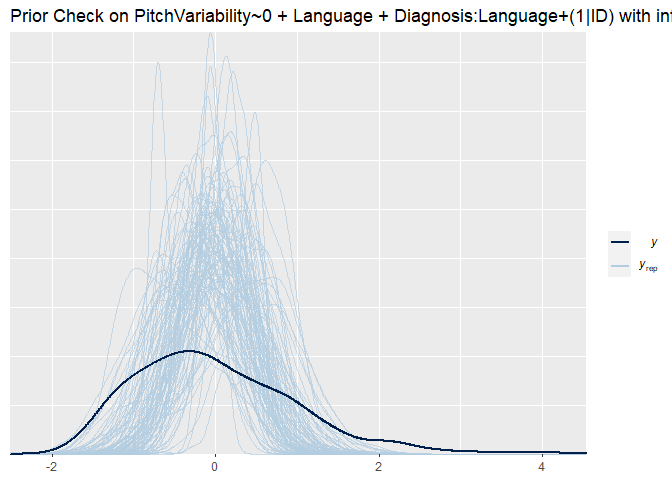
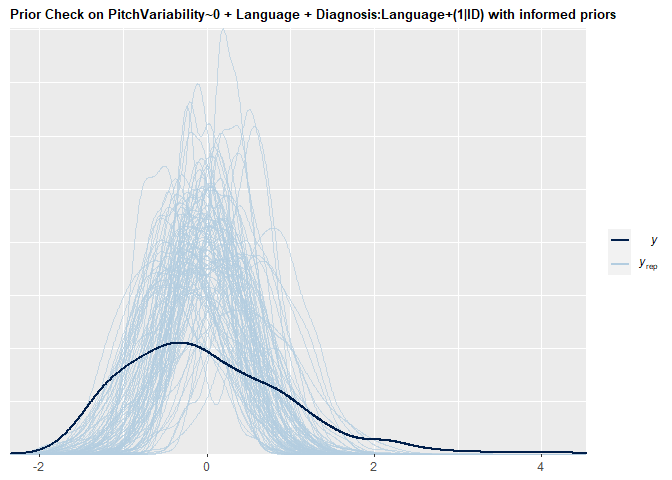
changed title size on plots

Changed region(s): [[0.0, 0.0, 1.0, 0.9688], [0.9062, 0.5, 1.0, 0.5625], [0.2812, 0.9688, 0.3438, 1.0]]

diff --git a/Assignment4.md b/Assignment4.md
@@ -165,7 +165,7 @@ metaAnalysis_m0 <- brm(
 priorCheck_metaAnalysis_m0 <-
   pp_check(metaAnalysis_m0, nsamples = 100)
 
-priorCheck_metaAnalysis_m0 + ggtitle(" Prior Check on EffectSize | se (StandardError) ~ 1+ (1|Population)")
+priorCheck_metaAnalysis_m0 + ggtitle(" Prior Check on EffectSize | se (StandardError) ~ 1+ (1|Population)") + theme(plot.title = element_text( size = 10, face = "bold"))
 ```
 
 ![](Assignment4_files/figure-gfm/Meta-analysis-1.png)<!-- -->
@@ -185,7 +185,7 @@ metaAnalysis_m1 <- brm(
 
 #posterior predictive check
 
-pp_check(metaAnalysis_m1, nsamples = 100) + ggtitle("Posterior Check on EffectSize | se (StandardError) ~ 1+ (1|Population) ")
+pp_check(metaAnalysis_m1, nsamples = 100) + ggtitle("Posterior Check on EffectSize | se (StandardError) ~ 1+ (1|Population) ")+ theme(plot.title = element_text( size = 10, face = "bold"))
 ```
 
 ![](Assignment4_files/figure-gfm/Meta-analysis-2.png)<!-- -->
@@ -272,10 +272,12 @@ ASD_DensityPitch + TD_DensityPitch
 ##Verbal IQ may interact with diagnosis and it the data does not look too skewed to cause trouble
 
 ASD_Density_VIQ <-
-  ggplot(data = filter(newData, Diagnosis == "ASD"), aes(VIQ, color = ID)) + geom_density() + ggtitle("Distribution of Verbal IQ in ASD") + theme(legend.position = "none")
+  ggplot(data = filter(newData, Diagnosis == "ASD"), aes(VIQ, color = ID)) + geom_density() + ggtitle("Distribution of Verbal IQ in ASD") + theme(legend.position = "none") + theme(plot.title = element_text( size = 10, face = "bold"))
+
 
 TD_Density_VIQ <-
-  ggplot(data = filter(newData, Diagnosis == "TD"), aes(VIQ, color = ID)) + geom_density() + ggtitle("Distribution of Verbal IQ in TD") + theme(legend.position = "none")
+  ggplot(data = filter(newData, Diagnosis == "TD"), aes(VIQ, color = ID)) + geom_density() + ggtitle("Distribution of Verbal IQ in TD") + theme(legend.position = "none") + theme(plot.title = element_text( size = 10, face = "bold"))
+
 
 
 ASD_Density_VIQ + TD_Density_VIQ
@@ -339,7 +341,7 @@ newStudies_m0_pc <- brm(
   file = "NewStudies_m0Prior"
 )
 
-pp_check(newStudies_m0_pc, nsamples = 100) + ggtitle("prior Check on PitchVariability ~ 1 + Diagnosis + (1 | ID)")
+pp_check(newStudies_m0_pc, nsamples = 100) + ggtitle("prior Check on PitchVariability ~ 1 + Diagnosis + (1 | ID)") + theme(plot.title = element_text( size = 10, face = "bold"))
 ```
 
 ![](Assignment4_files/figure-gfm/MEGA-ANALYSIS%20pt%202!!!-1.png)<!-- -->
@@ -368,7 +370,7 @@ hypo_m0 <-
 
 hypo_m0[[1]] + labs(title = "DiagnosisTD < 0",
                     subtitle = "Skeptical Priors",
-                    caption = "PitchVariability ~ 1 + Diagnosis + (1 | ID)") + theme(strip.text = element_blank())
+                    caption = "PitchVariability ~ 1 + Diagnosis + (1 | ID)") + theme(strip.text = element_blank()) 
 ```
 
 ![](Assignment4_files/figure-gfm/MEGA-ANALYSIS%20pt%202!!!-3.png)<!-- -->
@@ -428,7 +430,7 @@ newStudies_m1_pc <- brm(
   
 )
 
-pp_check(newStudies_m1_pc, nsamples = 100) + ggtitle("PriorCheck on PitchVariability~0 + Language + Diagnosis:Language+(1|ID) ")
+pp_check(newStudies_m1_pc, nsamples = 100) + ggtitle("PriorCheck on PitchVariability~0 + Language + Diagnosis:Language+(1|ID) ") + theme(plot.title = element_text( size = 10, face = "bold"))
 ```
 
 ![](Assignment4_files/figure-gfm/MEGA-ANALYSIS%20pt%202!!!-4.png)<!-- -->
@@ -447,7 +449,7 @@ newStudies_m1 <- brm(
 )
 
 # posterior predictive check
-pp_check(newStudies_m1, nsamples = 100) + ggtitle("Posterior Check on PitchVariability~0 + Language + Diagnosis:Language+(1|ID) ")
+pp_check(newStudies_m1, nsamples = 100) + ggtitle("Posterior Check on PitchVariability~0 + Language + Diagnosis:Language+(1|ID) ") + theme(plot.title = element_text( size = 10, face = "bold"))
 ```
 
 ![](Assignment4_files/figure-gfm/MEGA-ANALYSIS%20pt%202!!!-5.png)<!-- -->
@@ -647,7 +649,7 @@ newStudiesInformed_m1_pc <- brm(
 
 pp_check(newStudiesInformed_m1_pc, nsamples = 100) + ggtitle(
   "Prior Check on PitchVariability~0 + Language + Diagnosis:Language+(1|ID) with informed priors"
-)
+) + theme(plot.title = element_text( size = 10, face = "bold"))
 ```
 
 ![](Assignment4_files/figure-gfm/unnamed-chunk-1-1.png)<!-- -->
@@ -666,7 +668,7 @@ newStudiesInformed_m1 <- brm(
 
 pp_check(newStudiesInformed_m1_pc, nsamples = 100) + ggtitle(
   "Posterior Check on PitchVariability~0 + Language + Diagnosis:Language+(1|ID) with informed priors"
-)
+) + theme(plot.title = element_text( size = 10, face = "bold"))
 ```
 
 ![](Assignment4_files/figure-gfm/unnamed-chunk-1-2.png)<!-- -->
